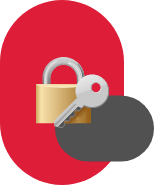
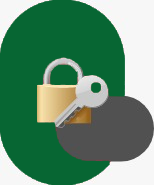
Rebranding and changing GUI for Mauto

diff --git a/lib/views/screens/DashboardScreen.dart b/lib/views/screens/DashboardScreen.dart
@@ -218,7 +218,7 @@ class DashboardState extends State<Dashboard> {
                     height: 40,
                   ),
                   Container(
-                    color: Colors.red,
+                    color: const Color(0xFF076834),
                     child: Padding(
                       padding: const EdgeInsets.symmetric(horizontal: 16),
                       child: Row(
@@ -382,7 +382,7 @@ class DashboardState extends State<Dashboard> {
                     height: 40,
                   ),
                   Container(
-                    color: Colors.red,
+                    color: const Color(0xFF076834),
                     child: Padding(
                       padding: const EdgeInsets.symmetric(horizontal: 16),
                       child: Row(
@@ -486,7 +486,7 @@ class DashboardState extends State<Dashboard> {
                     height: 40,
                   ),
                   Container(
-                    color: Colors.red,
+                    color: const Color(0xFF076834),
                     child: Padding(
                       padding: const EdgeInsets.symmetric(horizontal: 16),
                       child: Row(

diff --git a/lib/views/widgets/view.dart b/lib/views/widgets/view.dart
@@ -63,10 +63,10 @@ class _RecorderState extends State<Recorder> {
                 },
                 child: Container(
                   decoration: BoxDecoration(
-                    border: Border.all(color: Colors.red, width: 2),
+                    border: Border.all(color:const Color(0xFF076834), width: 2),
                     shape: BoxShape.circle,
                   ),
-                  child: Icon(Icons.mic, color: Colors.red),
+                  child: Icon(Icons.mic, color:const Color(0xFF076834)),
                 ),
               )
             : Row(
@@ -131,7 +131,7 @@ class _RecorderState extends State<Recorder> {
     setState(() {
       canRecord = true;
       _recordIcon = Icons.pause;
-      colo = Colors.red;
+      colo = const Color(0xFF076834);
     });
   }
 
@@ -163,7 +163,7 @@ class _RecorderState extends State<Recorder> {
       Fluttertoast.showToast(msg: "Start Recording");
       setState(() {
         _recordIcon = Icons.pause;
-        colo = Colors.red;
+        colo = const Color(0xFF076834);
         stop = true;
       });
     } else {

diff --git a/lib/main.dart b/lib/main.dart
@@ -74,6 +74,19 @@ Future<void> main() async {
 
 
 class MyApp extends StatelessWidget {
+  MaterialColor primaryColor = MaterialColor(0xFF076834, <int, Color>{
+    50: Color(0xFF076834),
+    100: Color(0xFF076834),
+    200: Color(0xFF076834),
+    300: Color(0xFF076834),
+    400: Color(0xFF076834),
+    500: Color(0xFF076834),
+    600: Color(0xFF076834),
+    700: Color(0xFF076834),
+    800: Color(0xFF076834),
+    900: Color(0xFF076834)
+  },
+  );
   @override
   Widget build(BuildContext context) {
     FirebaseMessaging _fcm = FirebaseMessaging.instance;
@@ -114,9 +127,9 @@ class MyApp extends StatelessWidget {
       child: MaterialApp(
         debugShowCheckedModeBanner: !isProduction,
         navigatorKey: navigator,
-        title: 'My Mikano',
+        title: 'My Mauto',
         theme: ThemeData(
-            primarySwatch: Colors.red,
+            primarySwatch: primaryColor,
             scaffoldBackgroundColor: Colors.white,
             fontFamily: PoppinsFamily),
         home: new SplashScreen(),

diff --git a/lib/secondmain.dart b/lib/secondmain.dart
@@ -75,6 +75,19 @@ Future<void> main() async {
 
 
 class MyApp extends StatelessWidget {
+  MaterialColor primaryColor = MaterialColor(0xFF076834, <int, Color>{
+    50: Color(0xFF076834),
+    100: Color(0xFF076834),
+    200: Color(0xFF076834),
+    300: Color(0xFF076834),
+    400: Color(0xFF076834),
+    500: Color(0xFF076834),
+    600: Color(0xFF076834),
+    700: Color(0xFF076834),
+    800: Color(0xFF076834),
+    900: Color(0xFF076834)
+  },
+  );
   @override
   Widget build(BuildContext context) {
     FirebaseMessaging _fcm = FirebaseMessaging.instance;
@@ -117,7 +130,7 @@ class MyApp extends StatelessWidget {
         navigatorKey: navigator,
         title: 'My Mikano',
         theme: ThemeData(
-            primarySwatch: Colors.red,
+            primarySwatch: primaryColor,
             scaffoldBackgroundColor: Colors.white,
             fontFamily: PoppinsFamily),
         home: new ApiConfigurationPagee(),

diff --git a/lib/utils/AppColors.dart b/lib/utils/AppColors.dart
@@ -1,13 +1,15 @@
 import 'package:flutter/material.dart';
 
-const mainColorTheme = Color(0xFFDE1D39);
+//const mainColorTheme = Color(0xFFDE1D39);
+const mainColorTheme = Color(0xFF076834);
 const mainGreyColorTheme = Color(0xFFBFBFBF);
 const mainGreyColorTheme2 = Color(0xFFFBFBFB);
 const mainLightGreyColorTheme = Color.fromRGBO(191, 191, 191, 0.3);
 const mainLightGreyColorTheme2 = Color.fromRGBO(241, 241, 241, 0.3);
 const menuScreenColor = Color(0xFF515151);
 const bottomNavigationBarColor = Color(0xFF111111);
-const bottomNavigationBarSelectedItemColor = Color(0xFFDE1D39);
+//const bottomNavigationBarSelectedItemColor = Color(0xFFDE1D39);
+const bottomNavigationBarSelectedItemColor = Color(0xFF076834);
 const backArrowColor = Color(0xFF111111);
 const mainBlackColorTheme = Color(0xFF111111);
 const lightBorderColor = Color(0xFFF1F1F1);

diff --git a/lib/utils/images.dart b/lib/utils/images.dart
@@ -5,8 +5,8 @@ const ic_electricity = "assets/electricity.png";
 const ic_steel = "assets/steel_i_beam.png";
 
 // Auth Pages
-const login_Page_PNG = "assets/Login.jpg";
-const Splash_Screen_Mikano_Logo = "assets/SplashScreenMikanoLogo.png";
+const login_Page_PNG = "assets/Login.png";
+const Splash_Screen_Mikano_Logo = "assets/SplashScreenMikanoLogo.jpeg";
 const ForgotPassword_Screen_PNG = "assets/ForgotPassword.png";
 
 // Social Media Icons
@@ -46,7 +46,8 @@ const ic_Cart = "assets/cart.png";
 const ic_Location_Pin = "assets/icons8-location.png";
 const ic_error = "assets/icons8-error.png";
 
-const ic_AppLogo = "assets/MyMikanoLogo2.png";
+//const ic_AppLogo = "assets/MyMikanoLogo2.png";
+const ic_AppLogo = "assets/MyMikanoLogo2.jpeg";
 const ic_Filter = "assets/icons8-conversion.png";
 const ic_sorting = "assets/icons8-sorting.png";
 

diff --git a/lib/views/screens/EntryPage.dart b/lib/views/screens/EntryPage.dart
@@ -28,8 +28,10 @@ class _EntryPageState extends State<EntryPage>
               children: <Widget>[
                 Spacer(),
                 Spacer(),
-                commonCacheImageWidget(Splash_Screen_Mikano_Logo, 205,
-                    fit: BoxFit.fill),
+                Padding(padding:EdgeInsets.fromLTRB(25, 0, 25, 0),child:
+                commonCacheImageWidget(Splash_Screen_Mikano_Logo, 100,
+                    fit: BoxFit.contain),
+                ),
                 Spacer(),
                 GestureDetector(
                   onTap: () {

diff --git a/lib/views/screens/CheckoutScreen.dart b/lib/views/screens/CheckoutScreen.dart
@@ -270,7 +270,7 @@ class CheckoutScreen extends StatelessWidget {
                                     toastLength: Toast.LENGTH_SHORT,
                                     gravity: ToastGravity.BOTTOM,
                                     timeInSecForIosWeb: 1,
-                                    backgroundColor: Colors.red,
+                                    backgroundColor: const Color(0xFF076834),
                                     textColor: Colors.white,
                                     fontSize: 16.0);
                               }

diff --git a/lib/views/screens/PDFViewScreen.dart b/lib/views/screens/PDFViewScreen.dart
@@ -45,7 +45,7 @@ class PDFViewScreen extends StatelessWidget {
                       child: Expanded(
                         child: LinearProgressIndicator(
                           backgroundColor: Colors.transparent,
-                          valueColor: AlwaysStoppedAnimation<Color>(Colors.red),
+                          valueColor: AlwaysStoppedAnimation<Color>(const Color(0xFF076834)),
                         ),
                       ),
                     ),

diff --git a/lib/views/screens/SplashScreen.dart b/lib/views/screens/SplashScreen.dart
@@ -49,7 +49,10 @@ class _SplashScreenState extends State<SplashScreen> {
   Widget build(BuildContext context) {
     return Scaffold(
       body: Center(
-        child: commonCacheImageWidget(Splash_Screen_Mikano_Logo, 200),
+        child:  Padding(padding:EdgeInsets.fromLTRB(25, 0, 25, 0),child:
+        commonCacheImageWidget(Splash_Screen_Mikano_Logo, 100,
+            fit: BoxFit.contain),
+        ),
       ),
     );
   }

diff --git a/lib/utils/appsettings.dart b/lib/utils/appsettings.dart
@@ -163,7 +163,8 @@ const spacing_large = 24.0;
 const spacing_xlarge = 32.0;
 const spacing_xxLarge = 40.0;
 
-const logoAsset = 'assets/SplashScreenMikanoLogo.png';
+//const logoAsset = 'assets/SplashScreenMikanoLogo.png';
+const logoAsset = 'assets/SplashScreenMikanoLogo.jpeg';
 const ssidUrl = "http://192.168.4.1";
 const ssidRestartUrl = ssidUrl + '/restart';
 const cloudIotMautoUrl = "https://iotapi.mauto.co/api";

diff --git a/lib/views/screens/MaintenanceRequestScreen.dart b/lib/views/screens/MaintenanceRequestScreen.dart
@@ -854,7 +854,7 @@ class MaintenanceRequestScreenState extends State<MaintenanceRequestScreen> {
                         child: Icon(
                           Icons.cancel,
                           size: 24,
-                          color: Colors.red,
+                          color:const Color(0xFF076834),
                         ),
                         onTap: () {
                           setState(() {
